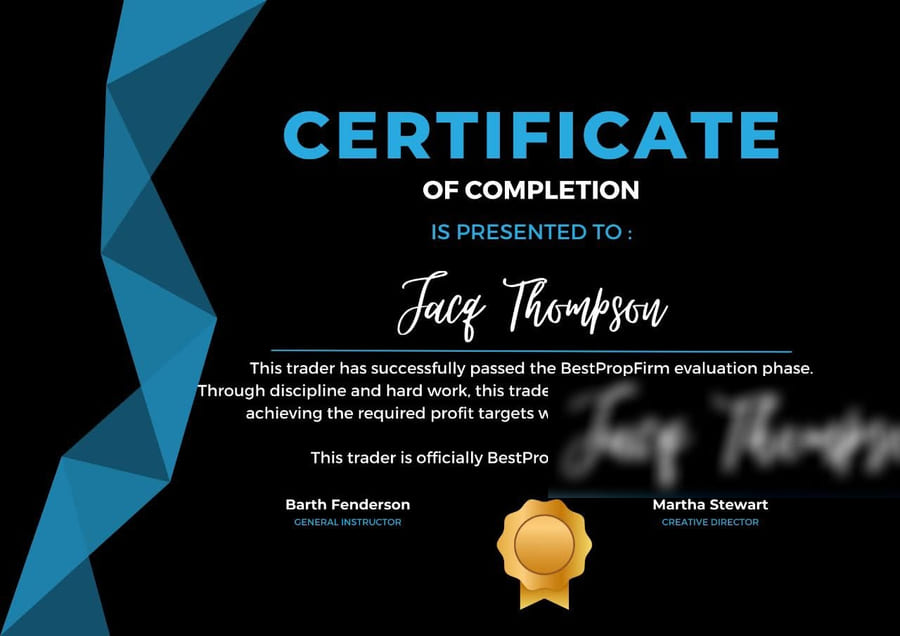
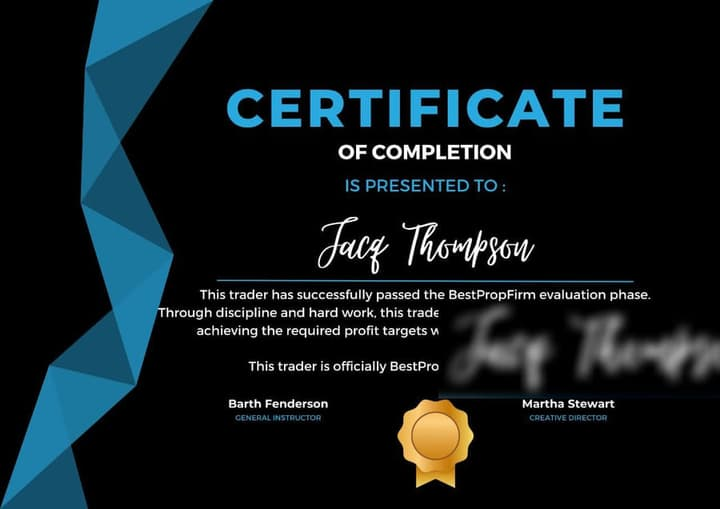
Halve the certificate image weight before the gallery goes live
122.7 KB of JPEGs was more than a third of the page for three below-the-fold images. Re-encoding at 720px/q75 keeps the documents legible and cuts the set to 76.9 KB, with matching width and height so nothing shifts.

🤖 Generated with Codebuff

diff --git a/src/pages/passed-challenges.html b/src/pages/passed-challenges.html
@@ -59,7 +59,7 @@ updated: 2026-10-18
         </figcaption>
       </figure>
       <figure class="cert-card">
-        <img src="/assets/img/certificates/cert-bestpropfirm-completion.jpg" alt="BestPropFirm evaluation completion certificate, with the client's name blurred" width="900" height="636" loading="lazy">
+        <img src="/assets/img/certificates/cert-bestpropfirm-completion.jpg" alt="BestPropFirm evaluation completion certificate, with the client's name blurred" width="720" height="509" loading="lazy">
         <figcaption>
           <strong>BestPropFirm</strong>
           Evaluation completion certificate · no date printed

diff --git a/docs/passed-challenges.html b/docs/passed-challenges.html
@@ -115,7 +115,7 @@
         </figcaption>
       </figure>
       <figure class="cert-card">
-        <img src="/assets/img/certificates/cert-bestpropfirm-completion.jpg" alt="BestPropFirm evaluation completion certificate, with the client's name blurred" width="900" height="636" loading="lazy">
+        <img src="/assets/img/certificates/cert-bestpropfirm-completion.jpg" alt="BestPropFirm evaluation completion certificate, with the client's name blurred" width="720" height="509" loading="lazy">
         <figcaption>
           <strong>BestPropFirm</strong>
           Evaluation completion certificate · no date printed
